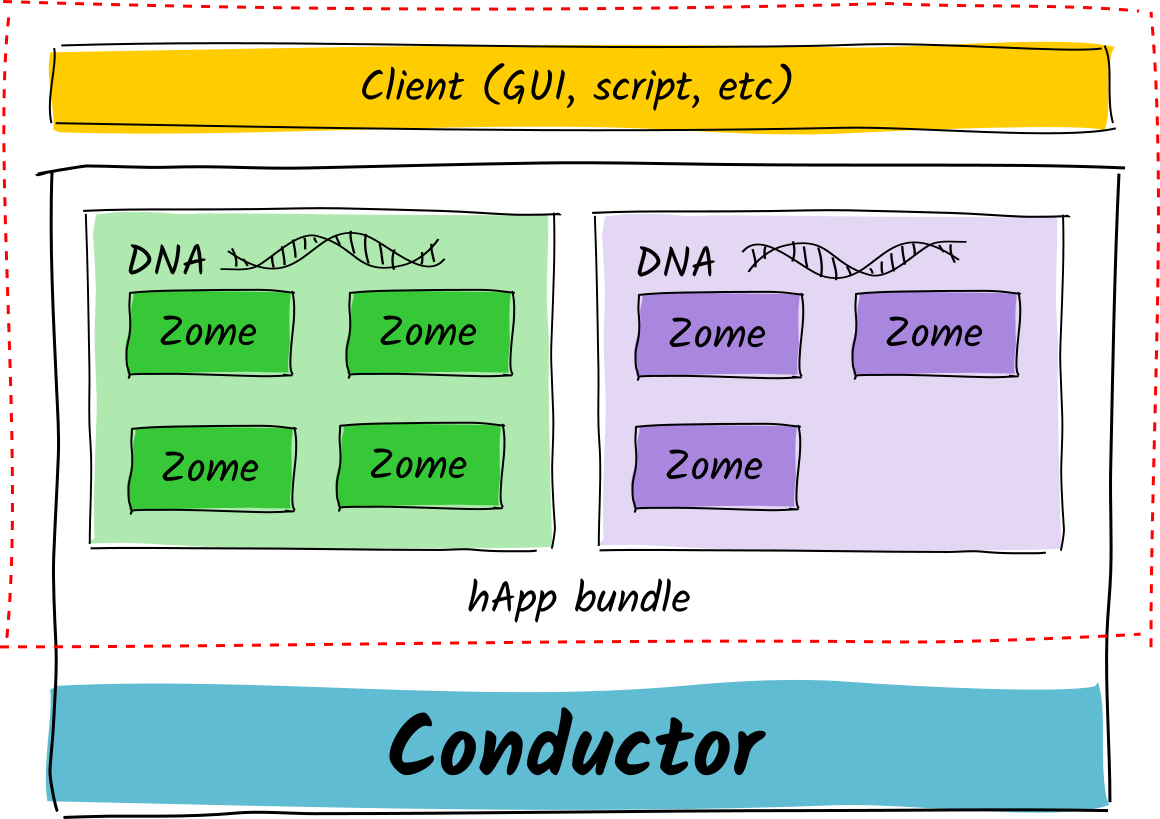
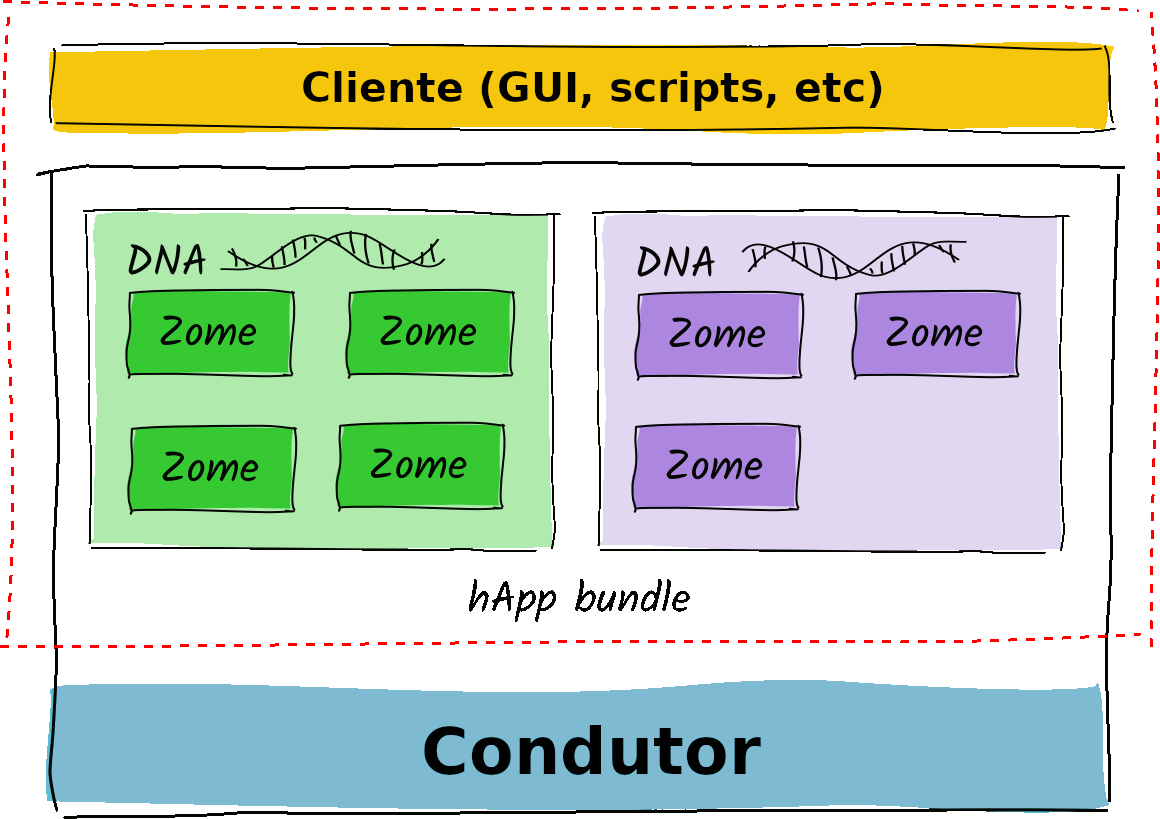
finish chapter of holochain

diff --git a/trabalho-academico.md b/trabalho-academico.md
@@ -196,15 +196,17 @@ A *Holochain* possui conceitos que se relacionam as células dos seres vivos, em
 \begin{figure}[htbp]
     \caption{\label{fig:holoarchitecture}Arquitetura de uma aplicação Holochain (hApp).}
     \begin{center}
-    \includegraphics[width=1.0\textwidth]{imagens/holoarchitecture.png}
+    \includegraphics[width=1.0\textwidth]{imagens/holodna.png}
     \end{center}
     \legend{Fonte: \citeonline{holoarchitecture}.}
 \end{figure}
 
-O condutor possui a lógica responsável por fazer com que a instância da aplicação comporte-se como um nó da rede *Holochain* (fig. \ref{fig:happnet}) e se comunique com outras instâncias (nós) daquela mesma aplicação, sendo que cada *hApp* possui uma rede privada própria que possibilita que uma instância de um *hApp* se comunique com outra instância sem precisar interagir com nós da rede que não possuam aquela aplicação. Dessa forma, a *Holochain* é uma coleção de redes privadas, sendo cada rede responsável por coordenar as instâncias de um *hApp*.
+O condutor possui a lógica responsável por fazer com que a instância da aplicação comporte-se como um nó da rede *Holochain* e se comunique com outras instâncias (nós) daquela mesma aplicação, sendo que cada *hApp* possui uma rede privada própria que possibilita que uma instância de um *hApp* se comunique com outra instância sem precisar interagir com nós da rede que não possuam aquela aplicação. Dessa forma, a *Holochain* é uma coleção de redes privadas, sendo cada rede responsável por coordenar as instâncias de um *hApp*.
+
+Cada nó da rede possui uma instância da aplicação com seus próprios dados, e essa instância se comunica com as demais intâncias na rede (fig. \ref{fig:happnet}). Os dados de cada nó são responsabilidade do próprio nó, porém, são validados segundo o DNA da aplicação por outros nós, sempre verificando se os dados condizem com as regras especificadas no DNA.
 
 \begin{figure}[htbp]
-    \caption{\label{fig:happnet}Aplicação Holochain (\emph{hApp}) comunicando-se na rede \emph{Holochain}.}
+    \caption{\label{fig:happnet}Aplicação \emph{Holochain} (\emph{hApp}) comunicando-se na rede \emph{Holochain}.}
     \begin{center}
     \includegraphics[width=1.0\textwidth]{imagens/happnet.png}
     \end{center}
@@ -215,14 +217,44 @@ Essa arquitetura da *Holochain* é denominada arquitetura orientada a agentes, o
 
 Para exemplificar a *Holochain*, podemos utilizar a metáfora de uma rosquinha, em que a massa da rosquinha representa a infraestrutura da *Holochain*, a cobertura representa a aplicação, podendo haver diversas aplicações implementadas com a *Holochain*, e em que o *agente* da rede que utiliza a aplicação está contido no interior da rosquinha, se comunicando com o resto da rede através das aplicações *Holochain*, como mostrado na  figura \ref{fig:holochainexplanned}. Cada outra rosquinha na imagem representa uma outra instância de uma mesma aplicação, que se comunicam uma com a outra.
 
-O espaço de comunicação externa a rosquinha, representa a rede *Holochain* que implementa uma DHT, porém, o espaço interno a cada rosquinha representa o agente que possui informações e dados distintos sob seu controle e que são manipulados internamente através das regras implemenetadas na aplicação.
-
 \begin{figure}[htbp]
   \caption{\label{fig:holochainexplanned}\emph{Holochain}: rede centrada no agente.}
   \begin{center}
   \includegraphics[width=1.0\textwidth]{imagens/holochainexplanned.png}
   \end{center}
   \legend{Fonte: \citeonline{holobasics}.}
+\end{figure}
+
+O espaço de comunicação externa a rosquinha, representa a rede *Holochain* que implementa uma DHT, porém, o espaço interno a cada rosquinha representa o agente que possui informações e dados distintos sob seu controle e que são manipulados internamente através das regras implemenetadas na aplicação.
+
+Para que a comunicação entre os nós seja possível, a *Holochain* utiliza uma rede DHT em que cada nó conhece um conjunto limitado e definido de outros nós vizinhos, e em que um nó pergunta ao outro e através do *hash* único do arquivo é possível determinar se o nó perguntado possui aquela informação, e caso não a tenha, consiga-se determinar qual nó possui a maior probabilidade de ter aquela informação ou conhecer o nó que possua aquela informação \ref{fig:dht}. Sendo assim, a *Holochain* possui uma rede de descoberta que se comporta de maneira logarítma, ou seja, a adição de novos dados não impacta de forma significativa o tempo que demora para um nó qualquer encontrar um dado qualquer.
+
+\begin{figure}[htbp]
+  \caption{\label{fig:dht}Exemplificação da descoberta de nós na rede DHT da \emph{Holochain}.}
+  \begin{center}
+  \includegraphics[width=1.0\textwidth]{imagens/dht.png}
+  \end{center}
+  \legend{Fonte: \citeonline{holobasics}.}
+\end{figure}
+
+Para garantir que o dado pertence ao nó correspondente e também para garantir que o dado não foi adulterado, sempre que uma instância do *hApp* cria um registro, ele assina eletrônicamente o registro público com sua chave privada, ele armazena-o internamente e também o compartilha com a rede, conforme mostrado na figura \ref{fig:regholo}.
+
+\begin{figure}[htbp]
+    \caption{\label{fig:regholo}Processo de registro de dados públicos na \emph{Holochain}.}
+    \begin{center}
+    \includegraphics[width=1.0\textwidth]{imagens/regholo.png}
+    \end{center}
+    \legend{Fonte: \citeonline{holodht}.}
+\end{figure}
+
+Caso o registro seja privado, ele realiza a assinatura eletrônica do registro, mas ao invés de compartilhar todo o registro, ele apenas compartilha o cabeçalho do mesmo, guardando o registro internamente apenas, conforme a figura \ref{fig:regholopriv}. Esse processo permite que o dado fique indisponível para os outros nós, mas também permite que sempre que o nó precise compartilhar esse dado com um nó específico, esse nó consiga verificar que o dado compartilhado realmente existe, pertence ao nó que o compartilhou, e que não foi adulterado \cite{holodht}.
+
+\begin{figure}[htbp]
+    \caption{\label{fig:regholopriv}Processo de registro de dados privados na \emph{Holochain}.}
+    \begin{center}
+    \includegraphics[width=1.0\textwidth]{imagens/regholopriv.png}
+    \end{center}
+    \legend{Fonte: \citeonline{holodht}.}
 \end{figure}
 
 \begin{table}[htbp]
@@ -301,16 +333,6 @@ Até pouco tempo atrás, tais plataformas eram inconcebíveis de serem criadas, 
 Porém, as plataformas existentes são desconhecidas ou inexistentes. Tal constatação pode ser explicada, embora sem rigor técnico, pelo modelo de negócio de tais plataformas, que no geral, criam novos *tokens* \textcolor{red}{[explicar o que são tokens]} ao invés de se basearem nas criptomoedas já consolidadas do mercado, além de utilizarem da mesma *blockchain* do Bitcoin, que conforme mostrado na \textcolor{red}{figura X [citar dados de performance da blockchain]} não consegue escalar.
 
 O problema de performance da *blockchain* é devido a necessidade de todos os agentes da rede terem que possuir o mesmo dado \textcolor{red}{[explicar melhor]}, assim, a adição de mais um nó na rede, não aumenta sua performance.
-
-Cada nó possui uma instância da aplicação com seus próprios dados, e essa instância se comunica com as demais intâncias na rede \ref{fig:communicationholo}. Os dados de cada nó, são responsabilidade do nó, porém, são validados segundo o DNA da aplicação por outros nós, sempre verificando se os dados condizem com as regras especificadas no DNA.
-
-\begin{figure}[htbp]
-    \caption{\label{fig:communicationholo}Interação entre hApps.}
-    \begin{center}
-    \includegraphics[width=1.0\textwidth]{imagens/communicationholo.png}
-    \end{center}
-    \legend{Fonte: \citeauthoronline{holoarchitecture}.}
-\end{figure}
 
 Caso seja identificado uma fraude na rede, o nó fraudulento é inserido numa lista de nó não confiável, tendo essa informação espalhada pela rede até o ponto em que ninguém na rede confia mais no nó fraudulento.
 
